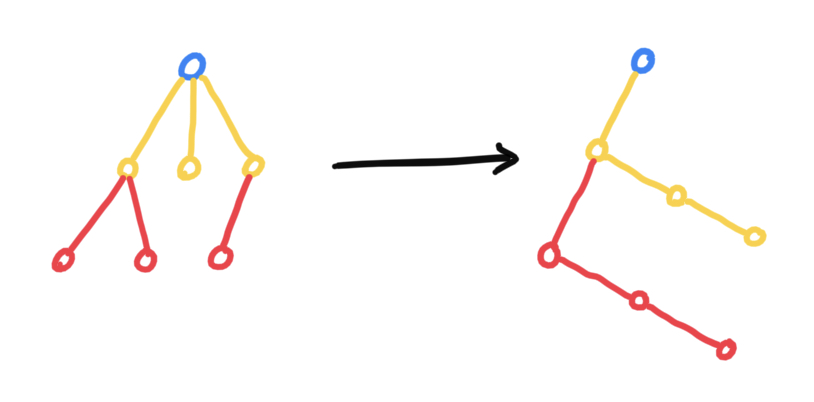
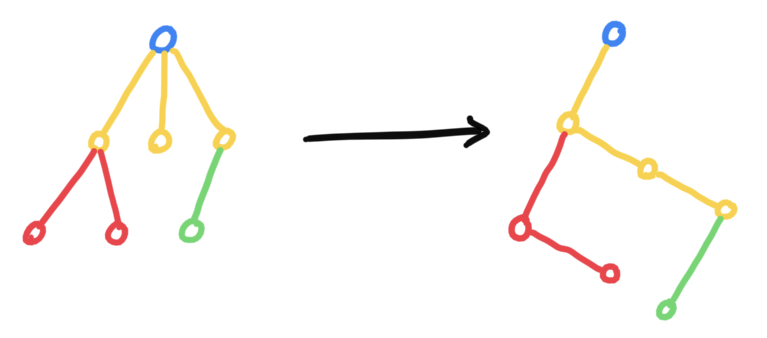
数据结构：更新了森林的遍历，并更正了一个树转换为二叉树的示意图错误

diff --git a/Study/数据结构.md b/Study/数据结构.md
@@ -191,18 +191,20 @@ class OLNode {
 
 ### 通过前序和中序推导树
 
-1. 确定根结点（前序的第一个结点，后序的最后一个结点），根据根结点将中序分割成左子树和右子树。
+> 写之前把前序和中序抄下来，先序每分析一个结点，就划掉一个，并在中序中把这个结点变成墙（很粗的分割线）。
+
+1. 确定根结点（前序的第一个结点，后序的最后一个结点），根据根结点将中序分割成左子树和右子树。画出根结点和左右分支。
 2. 将左子树和右子树看成新的树，重复第一步。
 
 ------
 
 **例：前序：ABCDEF，中序：CBAEDF**
 
-A 是根结点，将中序分为：[CB]A[EDF]，[CB] 是左子树，[EDF] 是右子树。
+A 是根结点，将中序分为：[CB]A[EDF]，[CB] 是左子树，[EDF] 是右子树。画出根结点和左右两个分支。
 
-分析 CB，前序是 BC，B 是根结点，将 CB 分为 [C]B，[C] 是左子树。
+左分支分析 CB，前序是 BC，B 是根结点，将 CB 分为 [C]B，[C] 是左子树。
 
-分析 EDF，前序是 DEF，D 是根结点，将 EDF 分为 [E]D[F]，[E] 是左子树，[F] 是右子树。
+右分支分析 EDF，前序是 DEF，D 是根结点，将 EDF 分为 [E]D[F]，[E] 是左子树，[F] 是右子树。
 
 ------
 
@@ -376,7 +378,11 @@ void InOrderThraverse_Thr(BiThrTree head) {
 
 其实和二叉树的存储结构是一样的，这样就将树转化为了二叉树。树转化为二叉树后，原来的兄弟节点变成了右子树。于是树就变成了一个由左分支串起来的一堆兄弟节点子树。
 
-![图片](../assets/IMG_28.png)
+树转化为二叉树时，最左分支不变，其余的所有分支都连到最左结点上。
+
+二叉树还原成树时，左分支不用变，右分支断开，连到自己的父结点上。
+
+![图片](../assets/IMG_28.png)
 
 ![pic](https://img-blog.csdnimg.cn/20200524112124510.png?x-oss-process=image/watermark,type_ZmFuZ3poZW5naGVpdGk,shadow_10,text_aHR0cHM6Ly9ibG9nLmNzZG4ubmV0L3R5Z21j,size_16,color_FFFFFF,t_70)
 
@@ -399,7 +405,7 @@ class TreeNode {
 
 前面说过，中序访问的二叉树可以分成左右两个部分，左子树和自己是同一分支，右子树是另一分支（相当于右分支串了一堆左子树）。因此，可以把第一棵树作为第一个左子树，第二棵树作为第二个左子树，...
 
-![图片](../assets/IMG_29.png)
+![图片](../assets/IMG_29.png)
 
 具体操作：
 
@@ -407,6 +413,24 @@ class TreeNode {
 2. 将第一课树的树根作为整个森林的树根，其他树的树根看作第一棵树根结点的兄弟节点，采用孩子兄弟法将所有树进行连接。
 
 森林转化为二叉树后，其前序遍历和中序遍历访问结点的顺序是不变的。
+
+### 森林的遍历
+
+#### 先序遍历
+
+> 相当于二叉树的先序遍历
+
+1. 访问森林中第一棵树的根结点
+2. 先根遍历根结点的子树
+3. 去掉第一棵树，重复
+
+#### 中序遍历
+
+> 相当于二叉树的中序遍历
+
+1. 中序遍历第一棵树的根结点的子树
+2. 访问第一棵树的根结点
+3. 去掉第一棵树，重复
 
 ### 树与等价问题
 
@@ -613,3 +637,4 @@ class Arc {
 }
 ```
 
+![图片](../assets/IMG_33.png)
